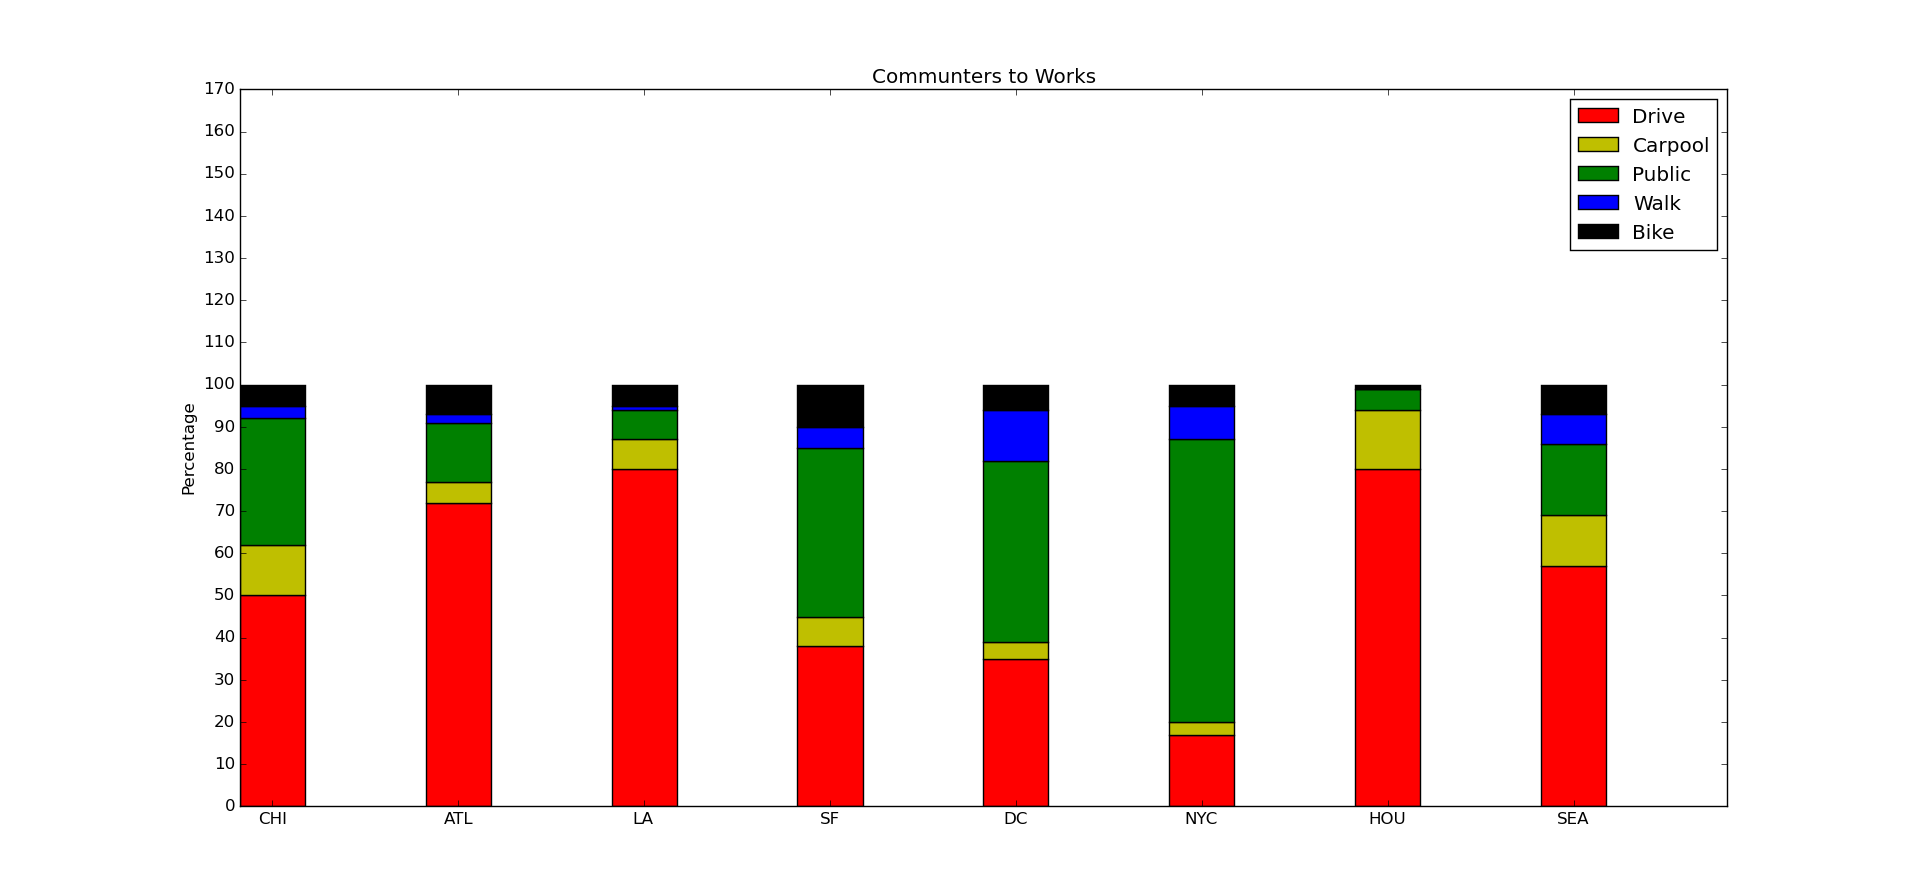
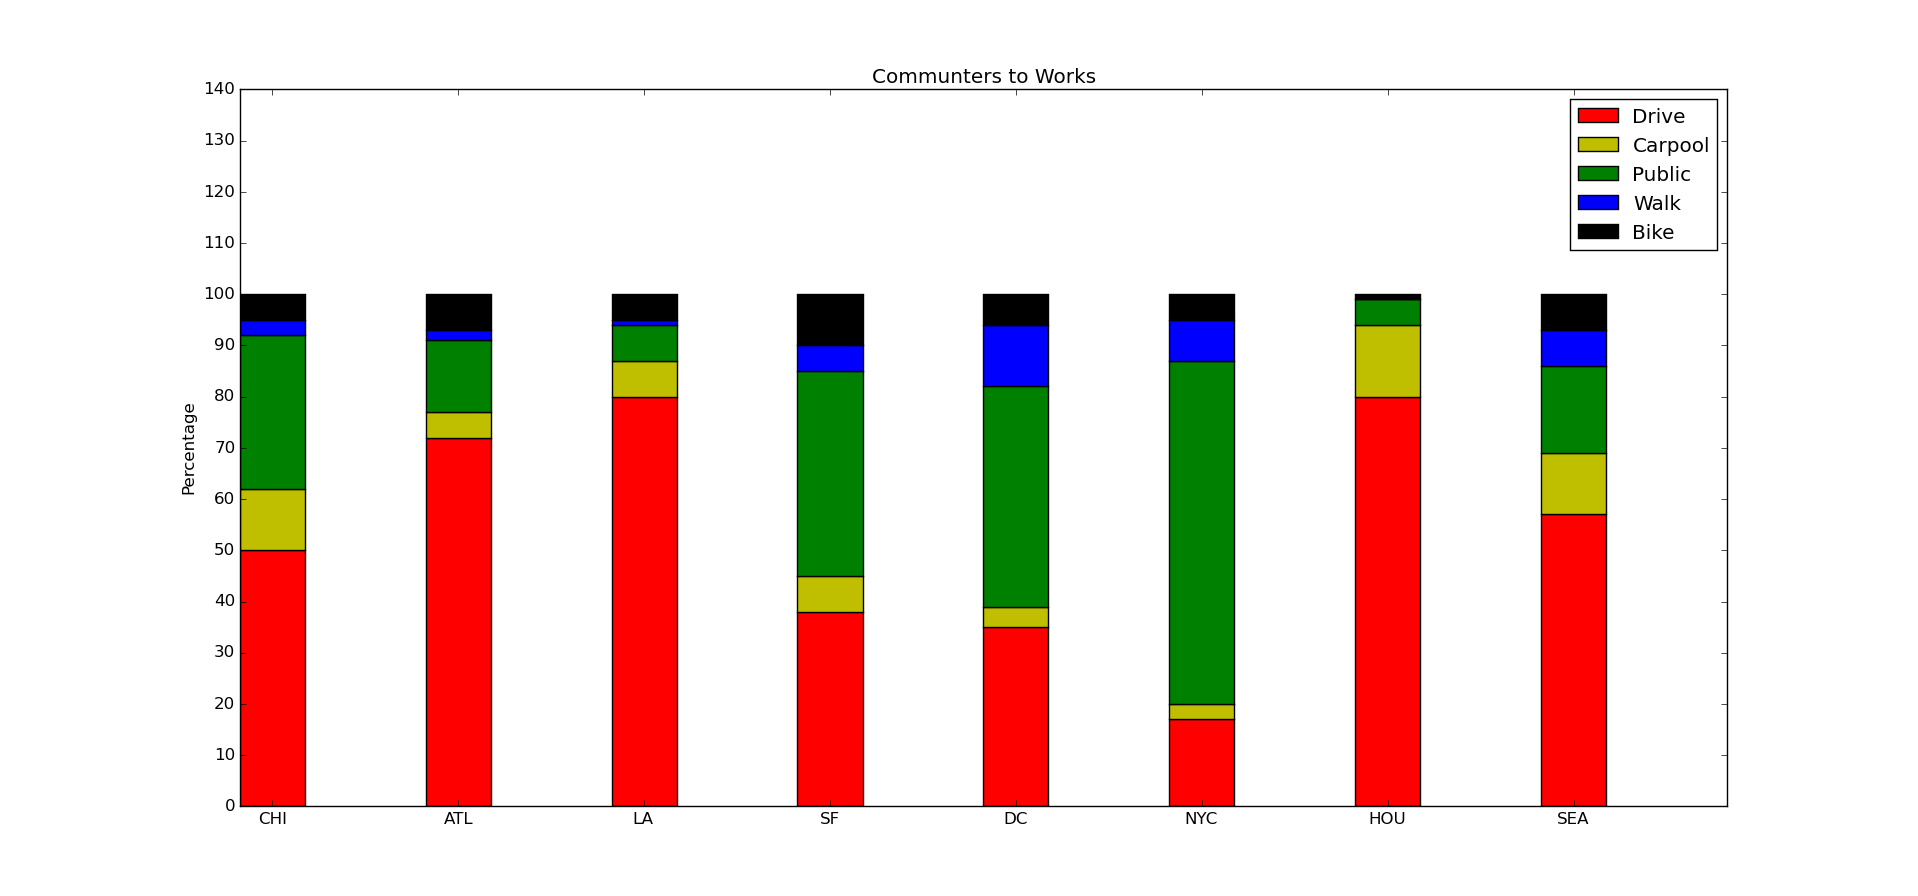
add all new graphs

diff --git a/_lf2494_blogpost/city_commute_by_City.py b/_lf2494_blogpost/city_commute_by_City.py
@@ -1,0 +1,102 @@
+import numpy as np
+import matplotlib.pyplot as plt
+
+opacity = 0.4
+
+
+CHI = np.array([50,12,30,3,5])
+ATL = np.array([72,5,14,2,7])
+LA = np.array([80,7,7,1,5])
+SF = np.array([38,7,40,5,10])
+DC = np.array([35,4,43,12,6])
+NYC = np.array([17,3,67,8,5])
+HOU = np.array([80,14,5,0,1])
+SEA = np.array([57,12,17,7,7])
+
+N = 5
+ind = np.arange(N)    # the x locations for the groups
+width = 0.70       # the width of the bars: can also be len(x) sequence
+
+
+p1 = plt.bar(ind, CHI,   width, color='r',alpha=opacity)
+p2 = plt.bar(ind, ATL, width, color='y',alpha=opacity,bottom=sum([CHI]))
+p3 = plt.bar(ind, LA, width, color='g',alpha=opacity, bottom=sum([CHI, ATL]))
+p4 = plt.bar(ind, SF, width, color='b' ,alpha=opacity, bottom=sum([CHI, ATL, LA]))
+p5 = plt.bar(ind, DC, width, color='k',alpha=opacity, bottom=sum([CHI, ATL, LA, SF]))
+p6 = plt.bar(ind, NYC, width, color='c',alpha=opacity, bottom=sum([CHI, ATL, LA, SF, DC]))
+p7 = plt.bar(ind, HOU, width, color='m',alpha=opacity, bottom=sum([CHI, ATL, LA, SF, DC, NYC]))
+p8 = plt.bar(ind, SEA, width, color='r', bottom=sum([CHI, ATL, LA, SF, DC, NYC, HOU]))
+
+
+plt.ylabel('Percentage')
+plt.title('Communters to Works')
+plt.xticks(ind+width/2., ('Drive', 'Carpool', 'Public', 'WAlk', 'Bike') )
+plt.yticks(np.arange(0,500,50))
+plt.legend( (p1[0], p2[0], p3[0], p4[0], p5[0], p6[0], p7[0], p8[0]), ('CHI', 'ATL', 'LA', 'SF', 'DC', 'NYC', 'HOU', 'SEA') )
+
+fig, ax = plt.subplots()
+
+index = np.arange(N)
+bar_width = 0.10
+
+
+error_config = {'ecolor': '0.3'}
+
+rects1 = plt.bar(index, CHI, bar_width,
+                 alpha=opacity,
+                 color='r',
+                 error_kw=error_config,
+                 label='CHI')
+
+rects2 = plt.bar(index + bar_width, ATL, bar_width,
+                 alpha=opacity,
+                 color='y',
+                 error_kw=error_config,
+                 label='ATL')
+
+
+rects3 = plt.bar(index + (bar_width*2), LA, bar_width,
+                 alpha=opacity,
+                 color='g',
+                 error_kw=error_config,
+                 label='LA')
+
+rects4 = plt.bar(index + (bar_width*3), SF, bar_width,
+                 alpha=opacity,
+                 color='b',
+                 error_kw=error_config,
+                 label='SF')
+
+rects5 = plt.bar(index + (bar_width*4), DC, bar_width,
+                 alpha=opacity,
+                 color='k',
+                 error_kw=error_config,
+                 label='DC')
+
+
+rects6 = plt.bar(index + (bar_width*5), NYC, bar_width,
+                 alpha=opacity,
+                 color='c',
+                 error_kw=error_config,
+                 label='NYC')
+
+rects7 = plt.bar(index + (bar_width*6), HOU, bar_width,
+                 alpha=opacity,
+                 color='m',
+                 error_kw=error_config,
+                 label='HOU')
+
+
+rects8 = plt.bar(index + (bar_width*7), SEA, bar_width,
+                 color='r',
+                 error_kw=error_config,
+                 label='SEA')
+
+plt.xlabel('Method')
+plt.ylabel('Percentages')
+plt.title('Communters to Work')
+plt.xticks(index + bar_width, ('Drive', 'Carpool', 'Public', 'WAlk', 'Bike'))
+plt.legend()
+
+fig, ax = plt.subplots()
+plt.show()

diff --git a/city_commute_by_City.py b/city_commute_by_City.py
@@ -1,0 +1,102 @@
+import numpy as np
+import matplotlib.pyplot as plt
+
+opacity = 0.4
+
+
+CHI = np.array([50,12,30,3,5])
+ATL = np.array([72,5,14,2,7])
+LA = np.array([80,7,7,1,5])
+SF = np.array([38,7,40,5,10])
+DC = np.array([35,4,43,12,6])
+NYC = np.array([17,3,67,8,5])
+HOU = np.array([80,14,5,0,1])
+SEA = np.array([57,12,17,7,7])
+
+N = 5
+ind = np.arange(N)    # the x locations for the groups
+width = 0.70       # the width of the bars: can also be len(x) sequence
+
+
+p1 = plt.bar(ind, CHI,   width, color='r',alpha=opacity)
+p2 = plt.bar(ind, ATL, width, color='y',alpha=opacity,bottom=sum([CHI]))
+p3 = plt.bar(ind, LA, width, color='g',alpha=opacity, bottom=sum([CHI, ATL]))
+p4 = plt.bar(ind, SF, width, color='b' ,alpha=opacity, bottom=sum([CHI, ATL, LA]))
+p5 = plt.bar(ind, DC, width, color='k',alpha=opacity, bottom=sum([CHI, ATL, LA, SF]))
+p6 = plt.bar(ind, NYC, width, color='c',alpha=opacity, bottom=sum([CHI, ATL, LA, SF, DC]))
+p7 = plt.bar(ind, HOU, width, color='m',alpha=opacity, bottom=sum([CHI, ATL, LA, SF, DC, NYC]))
+p8 = plt.bar(ind, SEA, width, color='r', bottom=sum([CHI, ATL, LA, SF, DC, NYC, HOU]))
+
+
+plt.ylabel('Percentage')
+plt.title('Communters to Works')
+plt.xticks(ind+width/2., ('Drive', 'Carpool', 'Public', 'WAlk', 'Bike') )
+plt.yticks(np.arange(0,500,50))
+plt.legend( (p1[0], p2[0], p3[0], p4[0], p5[0], p6[0], p7[0], p8[0]), ('CHI', 'ATL', 'LA', 'SF', 'DC', 'NYC', 'HOU', 'SEA') )
+
+fig, ax = plt.subplots()
+
+index = np.arange(N)
+bar_width = 0.10
+
+
+error_config = {'ecolor': '0.3'}
+
+rects1 = plt.bar(index, CHI, bar_width,
+                 alpha=opacity,
+                 color='r',
+                 error_kw=error_config,
+                 label='CHI')
+
+rects2 = plt.bar(index + bar_width, ATL, bar_width,
+                 alpha=opacity,
+                 color='y',
+                 error_kw=error_config,
+                 label='ATL')
+
+
+rects3 = plt.bar(index + (bar_width*2), LA, bar_width,
+                 alpha=opacity,
+                 color='g',
+                 error_kw=error_config,
+                 label='LA')
+
+rects4 = plt.bar(index + (bar_width*3), SF, bar_width,
+                 alpha=opacity,
+                 color='b',
+                 error_kw=error_config,
+                 label='SF')
+
+rects5 = plt.bar(index + (bar_width*4), DC, bar_width,
+                 alpha=opacity,
+                 color='k',
+                 error_kw=error_config,
+                 label='DC')
+
+
+rects6 = plt.bar(index + (bar_width*5), NYC, bar_width,
+                 alpha=opacity,
+                 color='c',
+                 error_kw=error_config,
+                 label='NYC')
+
+rects7 = plt.bar(index + (bar_width*6), HOU, bar_width,
+                 alpha=opacity,
+                 color='m',
+                 error_kw=error_config,
+                 label='HOU')
+
+
+rects8 = plt.bar(index + (bar_width*7), SEA, bar_width,
+                 color='r',
+                 error_kw=error_config,
+                 label='SEA')
+
+plt.xlabel('Method')
+plt.ylabel('Percentages')
+plt.title('Communters to Work')
+plt.xticks(index + bar_width, ('Drive', 'Carpool', 'Public', 'WAlk', 'Bike'))
+plt.legend()
+
+fig, ax = plt.subplots()
+plt.show()

diff --git a/_lf2494_blogpost/city_commute_stacked.py b/_lf2494_blogpost/city_commute_stacked.py
@@ -1,0 +1,28 @@
+import numpy as np
+import matplotlib.pyplot as plt
+
+N = 8
+Drive   = np.array([50, 72, 80, 38, 35, 17, 80, 57])
+Carpool = np.array([12, 5, 7, 7, 4, 3, 14, 12])
+Public  = np.array([30, 14, 7, 40, 43, 67, 5, 17])
+Walk 	= np.array([3, 2, 1, 5, 12, 8, 0, 7])
+Bike    = np.array([5, 7, 5, 10, 6, 5, 1, 7])
+
+ind = np.arange(N)    # the x locations for the groups
+width = 0.35       # the width of the bars: can also be len(x) sequence
+
+print ind
+
+p1 = plt.bar(ind, Drive,   width, color='r')
+p2 = plt.bar(ind, Carpool, width, color='y',bottom=sum([Drive]))
+p3 = plt.bar(ind, Public, width, color='g', bottom=sum([Drive, Carpool]))
+p4 = plt.bar(ind, Walk, width, color='b' , bottom=sum([Drive, Carpool, Public]))
+p5 = plt.bar(ind, Bike, width, color='k', bottom=sum([Drive, Carpool, Public, Walk]))
+
+plt.ylabel('Percentage')
+plt.title('Communters to Works')
+plt.xticks(ind+width/2., ('CHI', 'ATL', 'LA', 'SF', 'DC', 'NYC', 'HOU', 'SEA') )
+plt.yticks(np.arange(0,150,10))
+plt.legend( (p1[0], p2[0], p3[0], p4[0], p5[0]), ('Drive', 'Carpool', 'Public', 'Walk', 'Bike') )
+
+plt.show()

diff --git a/_lf2494_blogpost/Graph_Critique.md b/_lf2494_blogpost/Graph_Critique.md
@@ -27,3 +27,8 @@ http://www.shareable.net/blog/where-do-americans-share-transportation
 Graph in python using matplotlib and numpy
 
 ![Fixed Graph](https://github.com/lfawaz/edav/blob/gh-pages/_lf2494_blogpost/right_graph.png?raw=true)
+
+
+Here is the Link to the code
+
+https://github.com/lfawaz/edav/blob/gh-pages/_lf2494_blogpost/stacked_bar_chart.py
